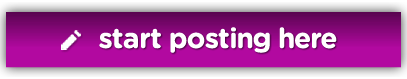
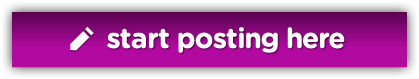
i18n header for Portuguese, Bahasa, English, Chinese, and Spanish

diff --git a/Resources/atos_es.html b/Resources/atos_es.html
@@ -1,0 +1,82 @@
+<html>
+<head></head>
+<body>
+
+	                              <h2 class="title">Términos del Servicio Adicionales</h2>
+	                            Términos Adicionales de Servicio para Meme de Yahoo!<br>
+	<br>
+	1.ACEPTACIÓN DE LOS TÉRMINOS Y CONDICIONES DE YAHOO!<br>
+	<br>
+	Yahoo! de Argentina SRL (“Yahoo!”) te da la bienvenida a Meme de Yahoo! ("Meme")  El uso de Meme está sujeto a estos “Términos Adicionales”  (“Términos Adicionales”), las Condiciones del Servicio de Yahoo! ("CDS") http://ar.docs.yahoo.com/info/utos.html, así como las Reglas para Meme.  Yahoo! se reserva el derecho de actualizar o modificar periódicamente, sin previa comunicación estos Términos Adicionales. Las versiones más actualizadas de estos Términos Adicionales y de las CDS se encuentran localizadas en http://meme.yahoo.com y http://ar.docs.yahoo.com/info/utos.html respectivamente. Puedes ratificar los presentes Términos Adicionales cada vez que efectuas una carga de Contenido.  En el evento de alguna inconsistencia entre estos Términos Adicionales y las CDS, los presentes Términos Adicionales prevalecerán. El uso de la información que nos proporcionas con motivo de tu uso de Meme, se regirá en todo momento conforme a nuestra Política de Privacidad la cual  podes consultar en http://info.yahoo.com/privacy/ar/yahoo/<br>
+	<br>
+	<br>
+	2. DECRIPCION DEL SERVICIO MEME. <br>
+	<br>
+	Meme proporciona una funcionalidad que permite a los usuarios con un ID válido de Yahoo!, cargar o efectuar enlaces (enviar URL específicas para publicación dentro de Meme) de contenido que puede incluir información, datos, música, sonido, fotografías, gráficos, video, texto, imágenes y enlaces (en conjunto “Contenido"). Podes también volver a cargar (haciendo una nueva edición vinculada a la original dentro de Meme) Contenido puesto a disposición en Meme por otros usuarios, si así lo deseas. Para que el contenido pueda ser cargado, mostrado y compartido con terceros, el mismo puede o no, a la discreción de Yahoo! ser (i) redireccionado a través de enlaces, o de cualquier otro medio a la ubicación original donde se encuentra alojado; (ii) alojado por Yahoo! y/o sus filiales; (iii) catalogado por Yahoo! y el motor de búsqueda de sus filiales; y (iv) utilizado por Yahoo! y/o sus filiales para su presentación pública en cualquier propiedad dentro de Yahoo! o su red de filiales y en sitios de terceros (incluyendo APIs, Alimentadores de RSS, o cualquier otro medio). Además, el Contenido puede ser comentado, visto y/o compartido por el público. <br>
+	<br>
+	3. CONTENIDO EN MEME.<br>
+	<br>
+	Yahoo! no controla el Contenido anunciado en Meme, y como tal, no garantiza la veracidad, integridad o calidad de dicho Contenido. Bajo ninguna circunstancia y en ninguna forma será Yahoo! responsable de ningún Contenido, que incluya y no se limite, a errores u omisiones en algún Contenido, o por alguna pérdida o daño de cualquier tipo que resulte del uso de algún Contenido anunciado y/o transmitido por medio de Meme. Aceptas que vos sos el responsable del Contenido que decidís cargar o de cualquier otra forma transmitir vía Meme y no Yahoo! o sus filiales. Reconoces expresamente y aceptas que Meme es un servicio de naturaleza pública dirigido a la comunidad de usuarios de Internet, de tal manera que una vez que solicitas se cargue un Contenido para su inclusión en Meme, tal Contenido es accesible a terceros y puede ser utilizado por los mismos sujeto a estos Términos Adicionales y a las Reglas para Meme, sin que exista confidencialidad o privacidad respecto del mismo. Si en algún momento, Meme te proporciona la opción de limitar el compartir una parte específica del Contenido que presentas, Yahoo! respetará la opción que has seleccionado para dicha parte de tal Contenido, pero tal opción y restricción de publicación aplicará sólo a dicha parte del Contenido y no a la totalidad del mismo. Actualmente, la presentación  de Contenido se efectúa libre de costo sin embargo, Yahoo! puede en el futuro, a su discreción, efectuar cargos por el uso de Meme o parte del mismo. <br>
+	<br>
+	<br>
+	4. CONDUCTAS Y CONTENIDO PROHIBIDO. <br>
+	<br>
+	Cuando cargas Contenido a Meme acordas que: <br>
+	<br>
+	A.Sos el titular o cuentas con las licencias, los derechos, las autorizaciones y los permisos requeridos con relación a toda patente, marca registrada, secreto comercial, derecho de autor u otros derechos de propiedad intelectual para el Contenido. Aceptas no realizar una carga de Contenido, cuyos derechos sean de propiedad de un tercero, sin la correspondiente autorización expresa para su uso, distribución, publicidad, transmisión y/o presentación pública en la manera contemplada en estos Términos Adicionales. Esto incluye el que no utilices a Meme para presentar contenido disponible en Internet cuya titularidad es de terceros, que (i) no éste disponible en áreas públicamente accesibles; (ii) tiene acceso restringido por alguna razón; (iii) cuyo propietario, titular de derechos, su poseedor o concesionario han prohibido su uso, distribución, publicidad, transmisión y/o presentación pública en la manera contemplada en estos Términos Adicionales, incluso si el Contenido está disponible en áreas públicamente accesibles en Internet;<br>
+	B.Tenes el consentimiento escrito, la renuncia o liberación y/o permiso de todas y cada una de las personas identificables en el Contenido para utilizar sus nombres e imágenes para su uso en la manera contemplada en estos Términos Adicionales;<br>
+	C.No presentarás Contenido que sea ilegal, abusivo, difamatorio, inadecuado, vulgar, pornográfico, ofensivo, indecente, invasivo de la privacidad e intimidad de terceros, odioso ó que incluya expresiones hostiles o de aversión, sean estas efectuadas en un ámbito racial, étnico, religioso o de cualquier otra manera cuestionable; <br>
+	D.Sos completa y exclusivamente responsable de todo Contenido presentando a Meme eximiendo a Yahoo! y sus filiales de cualquier tipo de responsabilidad, siendo vos el único responsable de cualquier daño, perjuicio o pérdida de cualquier naturaleza que puede causar a cualquier tercero, autorizando expresamente a Yahoo! para adoptar todas las medidas apropiadas incluyendo cualquier acción legal; y<br>
+	E.Sos también responsable de cumplir con  todas las obligaciones legales y contractuales relativas al Contenido que presentas a Meme, incluyendo el citar la fuente de dicho Contenido en caso de no ser el titular de los derechos sobre el mismo.<br>
+	<br>
+	5. CARGA DE CONTENIDO Y LICENCIAS.<br>
+	<br>
+	Yahoo! no reclama ningún tipo de titularidad respecto del Contenido que ingresas a Meme. Sin embargo, cuando cargas Contenido a Meme: <br>
+	<br>
+	(i) Otorgas a Yahoo! una licencia no exclusiva, a nivel mundial, de forma gratuita, libre de regalías ( “royalties" o derechos), sublicenciable y transferible por el término máximo permitido en la ley aplicable para la distribución, publicidad, transmisión y/o presentación pública del Contenido presentado a Meme por la que Yahoo! podrá: A. Alojar, guardar, almacenar, transmitir, redireccionar, archivar, catalogar y arrastrar, crear algoritmos basados en el Contenido, así como modificarlo o convertirlo a los formatos, estándares o los medios apropiados para Meme; B. Utilizar, distribuir, cargar, recargar, ejecutar, publicar, reproducir, modificar, mezclar, extraer, adaptar, efectuar trabajos derivados y hacer y/o alterar el formato del Contenido, para mostrarlo públicamente en Meme, o en cualquier propiedad de Yahoo!, o sus filiales, terceros o sitios de terceros, en cualquier medio incluyendo pero no limitado a Internet y plataformas móviles y para cualquier propósito editorial, a la discreción de Yahoo!; C. Usar, copiar, codificar, almacenar, archivar, distribuir, transmitir, modificar, traducir, crear un extracto del Contenido, convertir en un formato audible, exhibir y distribuir públicamente a sitios de terceros a través de un reproductor de media integrado el Contenido en todo o en parte a través de cualquier medio, incluyendo pero no limitado a Internet y plataformas móviles; y D. Utilizar el Contenido para fines de publicidad, actividades de marketing, propósitos promocionales o comerciales, incluyendo sin limitación, el derecho de mostrar públicamente, realizar, reproducir y distribuir el Contenido en cualquier formato y a través de cualquier medio incluyendo pero no limitado a Internet y plataformas móviles. La licencia que otorgas terminará una vez que removas o elimines el Contenido que cargaste a Meme, solicites su eliminación a Yahoo! o Yahoo! de acuerdo a los TDS y éstos Términos Adicionales remueva tal Contenido y una vez tal remoción haya sido procesada en el backend de Yahoo!. Yahoo! o sus compañías afiliadas no tienen obligaciones o deberes implícitos o expresos para publicar, alojar, transmitir o de cualquier manera incluir parte del Contenido en cualquier medio de propiedad de Yahoo! o sus filiales.<br>
+	<br>
+	(ii) autorizas a otro(s) usuario (s) de Meme libremente a compartir, distribuir, transmitir y/o presentar públicamente el Contenido que cargas a Meme a nivel mundial, de forma gratuita, libre de regalías  (“royalties" o derechos), por el término máximo permitido en la ley aplicable incluyendo la posibilidad de guardar o almacenar en Meme tal Contenido, transmitirlo, redireccionarlo, recargarlo, publicarlo, o reproducirlo. La licencia otorgada se encuentra expresamente limitada por las siguientes  restricciones:<br>
+	A. 	No podrán efectuarse cargas de Contenido, respecto de las cuales no se tengan los derechos, las licencias, ni las autorizaciones requeridas por éstos Términos Adicionales.<br>
+	B. 	Solo se podrá hacer uso del Contenido de acuerdo a los términos de esta licencia, incluyendo el citar la fuente de dicho Contenido en caso de no ser el titular de los derechos sobre el mismo e informar cuando se han efectuado cambios al Contenido original. <br>
+	C.	 No podrá imponerse ningún término ni medida tecnológica efectiva en el Contenido que restrinja los términos de esta Licencia ni la capacidad del beneficiario de la licencia para ejercer los derechos otorgados bajo la misma. <br>
+	D. 	No podrán ejercerse cualquiera de los derechos otorgados a través de esta licencia de alguna manera dirigida principalmente a recibir ventaja comercial o compensación monetaria. <br>
+	6. ENLACES A OTROS SITIOS WEB. <br>
+	Meme te permite realizar enlaces a otros sitios o recursos en la red. Debido a que Yahoo! no tiene control sobre dichos sitios y recursos, quienes pueden incluir sus propias Cookies u otros archivos en tu computadora, recoger datos o solicitar información personalmente identificable. Esos sitios de terceros tienen sus propias políticas y reglas con respecto el uso o a la divulgación de información personal que les proporcionas. Por favor leé las políticas y las declaraciones de los sitios Web que visitas. Yahoo! no será responsable por la disponibilidad de dichos sitios y recursos externos, y no los respalda ni es responsable o tiene obligación legal por el Contenido, comercialización, productos u otros materiales en los sitios o recursos, o disponibles desde los mismos. Yahoo! no será responsable ni estará obligado, directa o indirectamente, por ningún daño o pérdida causada por, o en conexión con el uso o confianza en cualquier Contenido, bienes o servicios disponibles a través de cualquier sitio o recurso. <br>
+	<br>
+	7. CRÉDITO POR EL ORIGEN DEL CONTENIDO  QUE CARGAS A MEME.<br>
+	<br>
+	Yahoo! acreditará automáticamente el Contenido que cargas a Meme para los fines exclusivos de éste, de la manera determinada por Yahoo! quien podrá, a su discreción, suprimir tal crédito, incluyendo, entre otras razones, casos en los cuales, acreditar el origen no sea apropiado a la forma, modo o tipo de presentación, transmisión, distribución, exhibición, publicación y/o ejecución del Contenido. Aceptas adicionalmente que cuando eliminas Contenido o solicitas su eliminación, tal acto implica la renuncia a la divulgación de tu crédito en la forma antes descrita, autorizando a Yahoo! a suprimirlo a su discreción. Si deseas que el Contenido  que cargas a Meme permanezca vinculado a  vos por razones de autoría, en los términos de la ley, serás el responsable, para esa específica finalidad, de incluir el crédito, nombre o signos distintivos al Contenido ó al espacio correspondiente para la introducción de comentarios, antes de cargarlo a Meme, de la misma manera en que lo realizas cuando atribuís crédito al Contenido cuya titularidad es de terceros.<br>
+	<br>
+	<br>
+	<br>
+	8. EXENCIÓN DE RESPONSABILIDAD.<br>
+	<br>
+	Aceptas que el Contenido que cargas a Meme no es creado ni es diseñado por Yahoo!, sino por cada usuario de Meme. Yahoo! no aprueba, vigila, edita previamente, revisa, condona, concuerda o hace ninguna declaración acerca de la corrección, pertinencia, conveniencia y legalidad del Contenido suministrado por los usuarios a Meme. Todas las opiniones, comentarios, declaraciones y cualquier otra forma de participación del usuario en el Servicio son de responsabilidad absoluta y exclusiva de los respectivos usuarios. Sos el único responsable de todo aquello que decidís escoger, hacer con, a partir de, o por causa del Contenido, así como todo uso de Meme no expresamente descrito por estos Términos Adicionales. Al utilizar el Servicio, o cuando hojeas y/o accedes y/o navegas por el Contenido, aceptas eximir a Yahoo! de cualquier responsabilidad por el Contenido disponible en Meme.<br>
+	<br>
+	8. Derechos de Publicidad. <br>
+	<br>
+	Yahoo! se reserva el derecho de vender, licenciar y/o mostrar cualquier publicidad, derechos promocionales y/o de distribución respecto al Contenido, Yahoo! y/o sus filiales tendrán derecho para retener cualquier y todo ingreso generado de cualquier venta o licencias de tales anuncios, o derechos promocionales o de distribución. No obstante lo anterior, nada en estos Términos Adicionales obliga o puede ser considerado como una obligación de Yahoo! o sus filiales para vender, licenciar u ofrecer vender o licenciar cualquier publicidad o derechos de promoción o distribución relacionados al Contenido.<br>
+	<br>
+	<br>
+	10. Indemnidad.<br>
+	<br>
+	Aceptas indemnizar y mantener a Yahoo! y sus subsidiarias, afiliadas, directores, representantes legales, empleados, socios y/o otros clientes que publiciten sus marcas conjuntamente con Yahoo! y/o cualquiera de sus filiales, libres de cualquier perdida o daño derivados de reclamos o demandas, incluyendo honorarios razonables de abogados, efectuados por cualquier tercero en relación al Contenido; la infracción a las CDS  y a éstos Términos Adicionales; así como la infracción de cualquier derecho de otra persona o entidad, o de la infracción de cualquier ley o regulación aplicable. Reconoces y aceptas el derecho de Yahoo! para tomar cualquier y todas las acciones legales apropiadas para imponer los derechos descritos en el presente literal 10 de éstos Términos Adicionales. <br>
+	<br>
+	<br>
+	11. Reserva de Derechos de Yahoo! <br>
+	<br>
+	Además de todos los otros remedios legales disponibles para Yahoo!,  aceptas que Yahoo! tiene el derecho a eliminar o incluir el Contenido en Meme, suspender o terminar tu cuenta de Yahoo!, rehusarse a conceder acceso a cualquier uso actual o futuro de Meme  o cualquier servicio de Yahoo! con o sin advertencia, si Yahoo!, en su absoluta discreción, cree que vos: (i) infringiste o trataste de infringir los derechos de Yahoo! u otros; o (ii) infringiste o trataste de infringir o actuar de forma contradictoria a éstos Términos Adicionales, cualquier otros términos de las CDS y cualquier otra regla aplicable, incluyendo las Reglas para Meme.<br>
+	12. MODIFICACIONES A MEME<br>
+	Yahoo! se reserva el derecho de modificar, o interrumpir Meme o cualquier parte del mismo, temporal o permanentemente, en cualquier momento y periódicamente, con o sin previa notificación, sin que Yahoo! sea responsable por ninguna modificación, suspensión, o interrupción.<br>
+	<br>
+	<br>
+	13. INVALIDEZ DE TÉRMINOS ESPECÍFICOS.<br>
+	<br>
+	Si cualquier provisión de éstos Términos Adicionales o cualquier documento integrado por referencia a los mismos es encontrada por un tribunal de jurisdicción competente como inválido, las partes de cualquier modo acuerdan que dicho Tribunal deberá valorar y darle efecto a la intención de las partes reflejada en dicha disposición, manteniendo las restantes disposiciones de estos Términos Adicionales en pleno vigor y efectividad.<br>
+	<br>
+	<br>
+	13. JURISDICCIÓN. <br>
+	<br>
+	Las CDS, estos Términos Adicionales y tu relación con Yahoo serán regidos por las leyes del estado de la República Argentina sin perjuicio de sus provisiones acerca de conflicto de leyes. Yahoo! y vos acuerdan expresamente en someterse a la jurisdicción personal y exclusiva de los Tribunales con competencia en lo Comercial de la Ciudad de Buenos Aires, renunciando a cualquier otro foro que pudiera corresponderles por razón de sus domicilios presentes o futuros. Sin embargo, la demora o dispensa de parte Yahoo! en ejercer o hacer efectivo algún derecho o provisión de los establecidos en éstos Términos Adicionales y las CDS no constituirá renuncia a dichos derechos o provisiones.	
+</body>
+</html>

diff --git a/Resources/atos_id.html b/Resources/atos_id.html
@@ -1,0 +1,98 @@
+<html>
+<head></head>
+<body>
+	
+	                              <h2 class="title">Ketentuan Layanan Tambahan</h2>
+	                            Syarat-Syarat Tambahan untuk Jasa Yahoo! Mim (Syarat-Syarat Tambahan)<br>
+	<br>
+	1. Persetujuan Syarat-Syarat Jasa <br>
+	<br>
+	Selamat datang di Mim (Jasa) dari Yahoo! Southeast Asia Pte. Ltd. (Co. Reg. No. 199700735D) (Yahoo! SEA). Penggunaan Jasa oleh Saudara tunduk kepada Syarat-Syarat Tambahan ini, yang melengkapi Ketentuan Layanan Yahoo! ("KL") http://info.yahoo.com/legal/id/yahoo/utos/ yang direferensikan di sini. <br>
+	Kapan saja Yahoo! SEA berhak untuk memperbaharui, mengubah Syarat-Syarat Tambahan ini dan dokumen lainnya yang direferensikan di sini dan Saudara, secara tanpa syarat, menyetujui dan menerima pembaharuan dan/atau perubahan hak tersebut oleh Yahoo! <br>
+	<br>
+	Penggunaan Saudara atas Jasa secara terus menerus setelah adanya pembaharuan dan/atau perubahan tersebut akan dianggap sebagai persetujuan atas dan penerimaan atas pembaharuan dari Syarat-Syarat Tambahan dan/atau dokumen. <br>
+	Saudara dapat selalu melihat versi terbaru dari Syarat-Syarat Tambahan ini di http://mim.yahoo.com/help/atos dan versi terbaru dari Ketentuan Layanan Yahoo! pada URL yang ditunjukkan di atas. Saudara akan menyetujui Syarat-Syarat Tambahan pada setiap Pemberian (lihat definisi pada Klausul 2 di bawah ini) dari Konten yang Saudara buat. Jika ada perbedaan antara Syarat-Syarat Tambahan ini dengan KL yang berhubungan dengan Jasa, maka yang berlaku adalah Syarat-Syarat Tambahan ini. <br>
+	<br>
+	2. Uraian Jasa <br>
+	<br>
+	Jasa ini memberikan ijin kepada setiap pengguna yang memiliki ID Yahoo! yang sah (Saudara atau saudara), untuk mengirimkan, meng-upload atau link (mengirimkan URL khusus untuk dipublikasikan dalam Jasa) konten, yang bisa meliputi informasi, teks, gambar, audio dan/atau video (bersama-sama disebut Konten). Selanjutnya Saudara dapat mengirim ulang (membuat suatu publikasi baru yang terikat dengan publikasi awal dalam Jasa) suatu Konten yang disediakan oleh pengguna lainnya, sesuai dengan Jasa. Untuk keperluan Syarat-Syarat Tambahan ini, Memberikan (dan variasi lainnya dari kata tersebut yang menggunakan huruf besar dengan benar) berarti mengirimkan, meng-upload, menghubungkan, atau mengirim ulang Konten. <br>
+	<br>
+	Agar Konten dapat dikirimkan, dilihat dan dibagikan secara umum dengan pihak-pihak ketiga, Yahoo! SEA (atas kebijakannya sendiri) dapat, baik melalui dirinya sendiri atau afiliasinya, (i) mengarahkan kembali Konten melalui suatu link atau sarana lainnya ke tempat semula di mana Konten diterbitkan; (ii) menerbitkan Konten tersebut; (iii) memberikan indeks Konten tersebut dengan mennggunakan alat pencari (search tools) sebagaimana tersedia; dan/atau (iv) membuat Konten tersebut tersedia untuk pengiriman, komunikasi, penampilan public dan/atau display pada bagian yang ada dalam jaringan(-jaringan) Yahoo! SEA dan/atau afiliasinya, atau situs pihak ketiga (termasuk melalui API, RSS Feeds, atau cara lainnya). Selain itu, Konten yang Diberikan dapat dikirim ulang, dikomentari, dilihat dan/atau dibagikan oleh pengguna Jasa lainnya. <br>
+	<br>
+	Saudara (bukan Yahoo! SEA ataupun afiliasinya) bertanggung jawab penuh atas Konten yang Diberikan oleh Saudara melalui Jasa. <br>
+	Saudara mengakui dan menyetujui bahwa Jasa adalah suatu jasa umum, sehingga Konten yang telah Diberikan akan dapat diakses oleh semua pihak, dan bahwa tidak ada unsur rahasia pribadi ataupun rahasia lainnya dalam kaitan dengan Konten yang telah Diberikan. Hal ini juga berlaku bagi setiap informasi pribadi yang Saudara berikan. <br>
+	Apabila Jasa memberikan kepada Saudara suatu pilihan, untuk membatasi pembagian tertentu dari suatu Konten yang Diberikan (baik sebagian maupun seluruhnya) pada saat tertentu dengan pengguna Jasa lainnya, maka Yahoo! SEA akan menghormati dan mengikuti batasan yang Saudara ambil. <br>
+	Saat ini, tidak ada biaya yang dikenakan kepada Saudara untuk Pemberian Konten dalam Jasa. Namun, Yahoo! SEA atas kebijakannya sendiri dapat mengenakan biaya atas penggunaan seluruh atau sebagian dari Jasa di kemudian hari. <br>
+	<br>
+	3. Konten yang Dilarang dan Perbuatan yang Dilarang <br>
+	<br>
+	Dengan Memberikan Konten, Saudara mengakui dan menyetujui: <br>
+	<br>
+	a. bahwa Saudara tidak akan meng-upload, memasang, mengirimkan surat elektronik, mengirim atau dengan cara lain membuat tersedianya konten yang melanggar paten, merek, rahasia dagang, hak cipta atau hak-hak terkait ata hak kepemilikan dari suatu pihak. Saudara berjanji untuk tidak Memberikan Konten yang dimiliki oleh pihak ketiga, tanpa persetujuan langsung dari pihak ketiga tersebut untuk penggunaan, distribusi, pengungkapan, dan/atau pengiriman konten tersebut sesuai dengan metode yang ditetapkan dalam Syarat-Syarat Tambahan ini. Hal ini meliputi, namun tidak terbatas pada, Konten yang tersedia di Internet yang dimiliki oleh pihak ketiga dan/atau yang (i) tidak tersedia pada daerah yang dapat diakses oleh umum; (ii) untuk alasan apapun, aksesnya telah ada dan/atau dibatasi; atau (iii) pemegangnya, pemiliknya atau penerima lisensinya telah melarang penggunaan, distribusi, pengungkapan dan/atau pengiriman Konten tersebut, walaupun Konten tersebut tersedia atau mungkin tersedia pada area yang dapat diakses oleh umum di Internet; <br>
+	<br>
+	b. bahwa Saudara mempunyai persetujuan tertulis dan/atau ijin tertulis dari masing-masing dan setiap orang yang teridentifikasikan dalam Konten, untuk menggunakan nama, kemiripan atau ciri-ciri pribadi orang tersebut sehubungan dengan jasa atau dengan cara yang sudah ditetapkan di dalam Syarat-Syarat Tambahan ini; <br>
+	<br>
+	c. untuk tidak Memberikan Konten yang tidak sah, berbahaya, mengancam, melecehkan, menghina, asusila bersifat menyiksa, memfitnah, menghasut, tidak senonoh, vulgar, pornografis, tidak menyenangkan, tidak pantas, salah, mencampuri rahasia pribadi orang lain, bermaksud menyerang seseorang atau suatu badan mengandung prasangka, atau yang tidak dapat diterima secara ras, etnis, agama, atau mengandung ancaman atau pemaksaan atau yang melanggar peraturan-peraturan di yurisdiksi anda; dan <br>
+	<br>
+	d. bahwa Saudara bertanggung jawab secara penuh dan eksklusif atas seluruh Konten yang Saudara Berikan kepada Jasa, dan dengan demikian Saudara membebaskan Yahoo! SEA dan para afiliasinya dari dan terhadap segala tanggung jawab sehubungan dengan hal tersebut termasuk juga penggunaan Jasa ini oleh Saudara. <br>
+	<br>
+	4. Pemberian Konten kepada Jasa <br>
+	<br>
+	Dengan menggunakan Jasa dan setiap waktu Saudara memberikan Konten kepada Jasa, Saudara menyetujui Yahoo! SEA dan afiliasinya untuk mempublikasikan, mengkomunikasikan, mendistribusikan, mengungkapkan, dan/atau mengirimkan Konten yang Diberikan dalam Jasa tanpa biaya dan Saudara memberikan hak kepada Yahoo! SEA yang berlaku untuk seluruh dunia, bebas royalty, non-eksklusif, dan dapat dialihkan untuk:<br>
+	<br>
+	a. menampung, menyimpan, menyembunyikan, memindahkan, mengarahkan kembali, mengindeks dan/atau menciptakan algoritme berdasarkan Konten, serta memodifikasi atau membuat sandi Konten media format yang layak, standar ataupun medium sebagai bagian dari Jasa;<br>
+	<br>
+	b. menggunakan, mengungkapkan, mendistribusikan, menyalin, mengirim ulang, menjalankan, mereproduksi, memodifikasi, mencampur kembali, mengutip, menyesuaikan, dan/atau membuat karya turunan, membuat kompilasi dan/atau mengubah format dari Konten, baik untuk Pemberian secara umum maupun untuk ditampilkan pada Jasa atau pada properti Yahoo! SEA atau afiliasinya lainnya, dan/atau pihak ketiga, pada distribusi atau media berjalan dan melalui saluran manapun dan untuk tujuan editorial apapun menurut kebijakan Yahoo! SEA; dan<br>
+	<br>
+	c. menggunakan Konten untuk dan dalam kaitan dengan publisitas, iklan, pemasaran, promosi atau tujuan-tujuan komersial, termasuk tapi tidak terbatas pada, hak untuk menampilkan secara umum, mengajukan, mereproduksi dan mendistribusikan Konten dalam format apapun dan melalui saluran media apapun.<br>
+	<br>
+	Saudara mengakui dan menyetujui bahwa Saudara tidak akan Memberikan Konten apapun yang mana Saudara tidak mempunyai hak, lisensi atau kuasa yang paling tidak sama dengan yang disyaratkan berdasarkan Syarat-Syarat Tambahan ini. Saudara selanjutnya bertanggung jawab untuk mematuhi segala persyaratan hukum dan perjanjian dalam kaitan dengan Konten yang Saudara Berikan kepada Jasa, termasuk yang berkaitan dengan penyebutan sumber Konten tersebut. <br>
+	Saudara juga mengakui dan menyetujui, tanpa menghiraukan Syarat-syarat Tambahan ini, bahwa tidak ada kewajiban baik langsung maupun tidak langsung bagi Yahoo! SEAuntuk memasang, menyimpan, mengirim atau memasukkan bagian lain dari Konten pada property atau kanal lainnya milik Yahoo!SEA atau afiliasinya. <br>
+	<br>
+	5. Penghargaan/Pengakuan untuk Sumber dari Konten yang Diberikan <br>
+	<br>
+	Yahoo! SEA akan mengakui Saudara secara otomatis atas Konten yang Diberikan oleh Saudara dengan cara yang ditentukan oleh Yahoo! SEA. <br>
+	Yahoo! SEA berhak secara absolut untuk mengungkapkan pengakuan tersebut sehubungan dengan Konten yang Diberikan oleh Saudara, termasuk namun tidak terbatas pada, situasi dimana pengungkapan tersebut menjadi tidak layak caranya, jenisnya, pengirimannya, pemasangannya, publikasinya dan/atau pengelolaannya terhadap Konten yang Diberikan tersebut. <br>
+	Jika atau pada saat Saudara mengeluarkan Konten yang Diberikan dari Jasa, Saudara setuju bahwa tindakan tersebut berarti Saudara mengabaikan hak Saudara atas pengakuan yang mengikuti Saudara atas Konten yang Diberikan tersebut. <br>
+	<br>
+	Selanjutnya Saudara mengakui dan menyetujui bahwa ketika Saudara mengeluarkan Konten dari Jasa, maka tindakan tersebut akan merupakan pelepasan dari pengungkapan penghargaan anda dengan cara yang ditetapkan di atas, dan dengan demikian memberikan kuasa kepada Yahoo! SEA untuk mengeluarkannya atas kebijakannya sendiri. <br>
+	<br>
+	6. Kepemilikan dari Konten yang Diberikan <br>
+	<br>
+	Yahoo! SEA dan afiliasinya tidak menyatakan kepemilikan atas Konten yang Diberikan melalui Jasa. Namun, sehubungan dengan Konten yang Diberikan melalui Jasa, Yahoo! SEA dan afiliasinya akan memiliki hak dan lisensi sebagaimana diberikan kepada mereka dalam KL dan Syarat-Syarat Tambahan ini. <br>
+	<br>
+	7. Pernyataan Penolakan <br>
+	<br>
+	Saudara mengerti bahwa Konten yang Diberikan adalah tanggung jawab penuh dari orang yang mana Konten tersebut berasal. Ini berarti bahwa Saudara (bukan Yahoo!), bertanggung jawab sepenuhnya atas seluruh Konten yang diberikan melalui Jasa. Yahoo! tidak mengendalikan Konten yang dipasang melalui Jasa dan oleh karena itu Yahoo! tidak menjamin akurasi, integritas atau kualitas dari Konten tersebut. Saudara mengerti bahwa dengan menggunakan Jasa ini, anda mungkin akan terekspos pada Konten yang menghina atau tidak layak. <br>
+	Dalam hal ini anda mengetahui bahwa anda tidak boleh mengandalkan Konten apapun yang dibuat oleh Yahoo! SEA atau Diberikan kepada Yahoo! SEA melalui Jasa. Dalam keadaan apapun baik Yahoo!SEA ataupun pemberi lisensinya, pemasok, anak perusahaannya, pemiliknya, afiliasinya, karyawannya atau agennya, akan bertanggung ejawab atas Konten yang menghina atau tidak layak, kesalahan atau kekurangan pada Konten, kerugian yang disebabkan oleh Konten yang dipasang, dikirimkan melalui email, dikirimkan atau disediakan melalui Jasa dengan cara lain. <br>
+	<br>
+	8. Kuasa yang diberikan oleh Saudara Bersifat Tidak Dapat Dicabut Kembali <br>
+	<br>
+	Saudara setuju bahwa Yahoo! SEA dan afiliasinya akan terus berhak untuk menggunakan, mendistribusikan, mengkomunikasikan, mereproduksi, memodifikasi, mempublikasikan, menyiarkan, mengadaptasikan dan menampilkan secara publik Konten yang Diberikan oleh Saudara walaupun Konten tersebut telah dihapus oleh Saudara, atau Saudara telah berhenti menggunakan Jasa, akun Saudara dihentikan atau tidak diaktifkan atau alasan lainnya. Sehubungan dengan hal ini, Syarat-Syarat Tambahan ini akan terus mengikat terhadap Konten yang Diberikan tersebut. <br>
+	<br>
+	9. Hak-Hak Iklan <br>
+	<br>
+	Yahoo! SEA berhak untuk menjual, memberikan lisensi dan/atau menampilkan setiap iklan, atribut, links, hak-hak promosi dan/atau distribusi yang berhubungan dengan Jasa, dan Yahoo! SEA tidak berhak untuk memperoleh segala bentuk penghasilan/pendapatan yang diperoleh dari penjualan atau pemberian lisensi dari iklan tersebut, atribut, links, atau hak-hak promosi atau hak distribusi untuk manfaatnya sendiri. Tidak ada apapun juga di dalam Syarat-Syarat Tambahan ini yang mewajibkan atau dapat dianggap sebagai mewajibkan Yahoo! SEA untuk menjual, melisensikan atau menawarkan untuk menjual atau melisensikan hak-hak iklan, promosi atau distribusi. <br>
+	<br>
+	10. Ganti Rugi <br>
+	<br>
+	Saudara setuju untuk mengganti rugi dan membebaskan Yahoo! SEA dan pemegang sahamnya, anak perusahaannya, afiliasinya, pejabatnya, agennya, karyawannya, pemasoknya, co-brander dan pemberi lisensi dari dan terhadap setiap kerugian, tuntutan, kehilangan, biaya pengeluaran, termasuk biaya pengadilan dan biaya penasehat hukum, yang dikarenakan oleh pihak ketiga atau terjadi secara langsung maupun tidak langsung yang dikarenakan atau sehubungan dengan Konten yang Diberikan melalui Jasa, penggunaan anda atas Jasa, sambungan anda kepada Jasa, pelanggaran anda terhadap KL atau Syarat- Syarat Tambahan, atau pelanggaran anda atas hak orang lain bahkan pelanggaran anda atas hukum atau peraturan yang berlaku. <br>
+	<br>
+	11. Kepemilikan Hak <br>
+	<br>
+	Jasa ini dan manfaatnya, sepenuhnya ditawarkan atas kebijakan Yahoo! SEA, dan Yahoo! SEA berhak untuk mengubah atau menghentikan, baik secara sementara atau permanent, Jasa tersebut, seluruhnya ataupun sebagian untuk alasan apapun juga sesuai dengan kebijakannya, dengan pemberitahuan atau tanpa pemberitahuan kepada Saudara. Saudara setujua bahwa Yahoo! SEA tidak akan bertanggungjawab kepada Saudara atau pihak ketiga lainnya mengenai perubahan atau penghentian sebagian atau keseluruhan dari Jasa. Saudara mengetahui bahwa Yahoo! SEA, berdasarkan kebijakannya, berhak (namun tidak wajib) untuk melihat dulu sebelumnya, menolak, memindahkan atau menutup akses atas Konten apapun yang tersedia melalui Jasa. Tanpa membatasi hal tersebut di atas, Yahoo! SEA berhak untuk memindahkan atau menutup akses kepada Konten apapun (baik itu disediakan oleh Saudara ataupun tidak) yang diyakini dengan itikad baik bahwa itu melanggar Syarat-Syarat Tambahan ini atau KL atau diyakini melanggar hak kekayaan intelektual atau secara tidak sah atau menurut pendapatnya merupakan pelanggaran dengan cara lain, tanpa bertanggung jawab kepada Saudara dalam cara apapun untuk segala kerugian atau kerusakan yang diakibatkan oleh pemindahan tersebut. Anda juga mengetahui bahwa Yahoo! SEA dan/atau afiliasinya, dengan atau tanpa pemberitahuan kepada Saudara, dapat menahan atau membatalkan akun Saudara atau menolak memberikan Saudara akses atas Jasa yang ada sekarang atau yang akan datang, apabila Yahoo! SEA dan/atau afiliasinya, menurut pendapatnya sendiri, yakin bahwa Saudara telah; (i) melanggar atau berusaha melanggar hak-hak Yahoo! SEA atau pihak ketiga lainnya; atau (ii) melanggar, mencoba melanggar atau bertindak secara tidak konsisten atas Syarat-Syarat Tambahan ini, KL atau hukum maupun peraturan lainnya yang berlaku.<br>
+	<br>
+	12. Ketidakberlakuan syarat-syarat tertentu <br>
+	<br>
+	Jika ada ketentuan-ketentuan dari Syarat-Syarat Tambahan ini atau dokumen yang termasuk di dalamnya dianggap tidak sah oleh pengadilan dari yurisdiksi yang berwenang, maka para pihak setuju bahwa ketentuan-ketentuan lainnya akan ditafsirkan dengan cara sedemikian sehingga mencerminkan maksud awal dari para pihak, dan ketentuan-ketentuan lain tersebut dengan demikian akan tetap berlaku penuh. <br>
+	<br>
+	13. Keseluruhan Perjanjian <br>
+	<br>
+	Syarat-Syarat Tambahan ini termasuk seluruh dokumen lainnya yang menjadi bagian dalam bentuk referensi merupakan keseluruhan perjanjian antara Saudara dan Yahoo! sehubungan dengan penggunaan Jasa oleh Saudara, yang menggantikan setiap perjanjian sebelumnya antara Saudara dan Yahoo! dalam kaitan dengan Jasa. Jika setelah Saudara setuju dengan Syarat-Syarat Tambahan ini, Saudara setuju dengan ketentuan-ketentuan jasa lainnya dengan Yahoo! SEA atau afiliasinya, dan syarat-syarat jasa tersebut tidak secara khusus dan secara eksplisit menunjukkan (dengan nama) Syarat-Syarat Tambahan ini dan Jasa sebagaimana digantikan, maka Syarat-Syarat Tambahan ini akan tetap mengatur penggunaan Jasa oleh Saudara. <br>
+	<br>
+	14. Yurisdiksi <br>
+	<br>
+	Syarat-Syarat Tambahan dan hubungan antara Saudara dan Yahoo! SEA akan diatur oleh hukum Republik Singapura, tanpa memperhitungkan setiap prinsip konflik hukum yang ada. Saudara dan Yahoo! SEA setuju untuk tunduk kepada wewenang tunggal dan eksklusif dari pengadilan yang berada di Singapura.
+	
+</body>
+</html>

diff --git a/Resources/app.js b/Resources/app.js
@@ -63,10 +63,14 @@ appNavBarView.add(logoHeader);
 
 var btn_signin = Titanium.UI.createButton({
 	backgroundImage: L('path_btn_signin_background_image'),
-	top: 			-22,
-	left: 			940,
-	width: 			96, // 72
-	height: 		97,  // 54
+	top: 			-6,
+	left: 			936,
+	width: 			100, 
+	height: 		66,  
+	title: 			L('path_btn_signin_title'),
+	color: 			'white',
+	textAlign: 		'center',
+	font: 			{fontSize:13, fontFamily:'Helvetica Neue', fontWeight:'regular'},
 	opacity: 		1,
 	visible: 		false,
 	zIndex: 		3
@@ -75,10 +79,10 @@ win1.add(btn_signin);
 
 var btn_signup = Titanium.UI.createButton({
 	backgroundImage: 	L('path_btn_signup_background_image'),
-	top: 				-26,
-	left: 				599,
-	width: 				369, //actual: 303	
-	height: 			106, //actual: 54
+	top: 				-6,
+	left: 				632,
+	width: 				315, //actual: 303	
+	height: 			66, //actual: 54
 	opacity: 			1,
 	visible: 			false,
 	zIndex: 			3
@@ -134,11 +138,7 @@ var showHeader = function (successCallback) {
 		}
 		
 		var btn_Username = Ti.UI.createView({
-			backgroundImage: 			'images/btn_username.png',
-			// backgroundSelectedImage: 	'images/btn_username_selected.png',
-			// title: 						Ti.App.myMemeInfo.title,
-			// textAlign: 					'left',	
-			// font: 						{fontSize:14, fontFamily:'Helvetica Neue', fontWeight:'bold'},	
+			backgroundImage: 			'images/btn_username.png',	
 			backgroundLeftCap: 			2,
 			backgroundRightCap: 		33,
 			height: 					49,
@@ -230,16 +230,18 @@ var showHeader = function (successCallback) {
 			});
 
 			var btn_signout = Ti.UI.createButton({
-				top:14,
-				left:256,
-				width:64,
-				height:31,
-				title: L('btn_signout_title'),
-				color: '#666666',
-				font:{fontSize:11, fontWeight:'regular'},
-				backgroundImage: L('path_btn_signout_background_image'),
-				style: Titanium.UI.iPhone.SystemButtonStyle.PLAIN,
-				borderRadius: 5
+				top: 						14,
+				backgroundLeftCap: 			10,
+				backgroundRightCap: 		10,
+				left: 						245,
+				width: 						75,
+				height: 					31,
+				title: 						L('btn_signout_title'),
+				color: 						'#666666',
+				font: 						{fontSize:11, fontWeight:'regular'},
+				backgroundImage: 			L('path_btn_signout_background_image'),
+				style: 						Titanium.UI.iPhone.SystemButtonStyle.PLAIN,
+				borderRadius: 				5
 			});
 			row1.add(btn_signout);
 			
@@ -339,16 +341,18 @@ var showHeader = function (successCallback) {
 			aboutWindow.add(navBar);
 			
 			var backButton = Ti.UI.createButton({
-				backgroundImage: 	L('path_btn_back'),
-				left: 				0,
-				top: 				-5,
-				height: 			52, //29
-				width: 				73, // 50
-			    title: 				L('btn_back_title'),
-				color: 				'white',
-				textAlign: 			'center',
-				font: 				{fontSize:12, fontFamily:'Helvetica', fontWeight:'bold'},
-				style: 				Titanium.UI.iPhone.SystemButtonStyle.PLAIN
+				backgroundImage: 			L('path_btn_back'),
+				backgroundLeftCap: 			20,
+				backgroundRightCap: 		20,
+				left: 						0,
+				top: 						-5,
+				height: 					52, //29
+				width: 						100, // 50
+			    title: 						L('btn_back_title'),
+				color: 						'white',
+				textAlign: 					'center',
+				font: 						{fontSize:12, fontFamily:'Helvetica', fontWeight:'bold'},
+				style: 						Titanium.UI.iPhone.SystemButtonStyle.PLAIN
 			});
 			navBar.add(backButton);
 
@@ -430,10 +434,10 @@ var showHeader = function (successCallback) {
 		
 		var btn_start_posting = Ti.UI.createButton({
 			backgroundImage: 	L('path_btn_start_posting_background_image'), 
-			height: 			79, //55
-			width: 				407, //395
-			left: 				623,
-			top: 				-13,
+			height: 			79,
+			width: 				419, 
+			left: 				617,
+			top: 				-12,
 			zIndex: 			5
 		});
 		headerView.add(btn_start_posting);

diff --git a/Resources/newpost.js b/Resources/newpost.js
@@ -173,10 +173,14 @@ btn_addPhoto.addEventListener('click', function() {
 // ===============
 var btn_post = Ti.UI.createButton({
 	backgroundImage: L('path_btn_post_top_background_image'),
-	height: 		85,
-	width: 			192,
-	left: 			780,
-	top: 			-10
+	height: 					85,
+	title: 						L('btn_post_top_title'),
+	color: 						'white',
+	textAlign: 					'center',
+	font: 						{fontSize:22, fontFamily:'Helvetica Neue', fontWeight:'bold'},
+	width: 						192,
+	left: 						780,
+	top: 						-10
 });
 postHeaderView.add(btn_post);
 // ======================
@@ -329,7 +333,8 @@ var disclaimerLabel1 = Titanium.UI.createLabel({
 	height: 	15,
 	left: 		120,
 	font: 		{fontSize:11, fontFamily:'Helvetica', fontWeight:'regular'},
-	bottom: 	18
+	bottom: 	18,
+	zIndex: 	3
 });
 win.add(disclaimerLabel1);
 
@@ -341,7 +346,8 @@ var disclaimerLabel2 = Titanium.UI.createLabel({
 	height: 	15,
 	left: 		disclaimerLabel1.left + disclaimerLabel1.width + 5,
 	font: 		{fontSize:11, fontFamily:'Helvetica', fontWeight:'regular'},
-	bottom: 	18
+	bottom: 	18,
+	zIndex: 	3
 });
 win.add(disclaimerLabel2);
 
